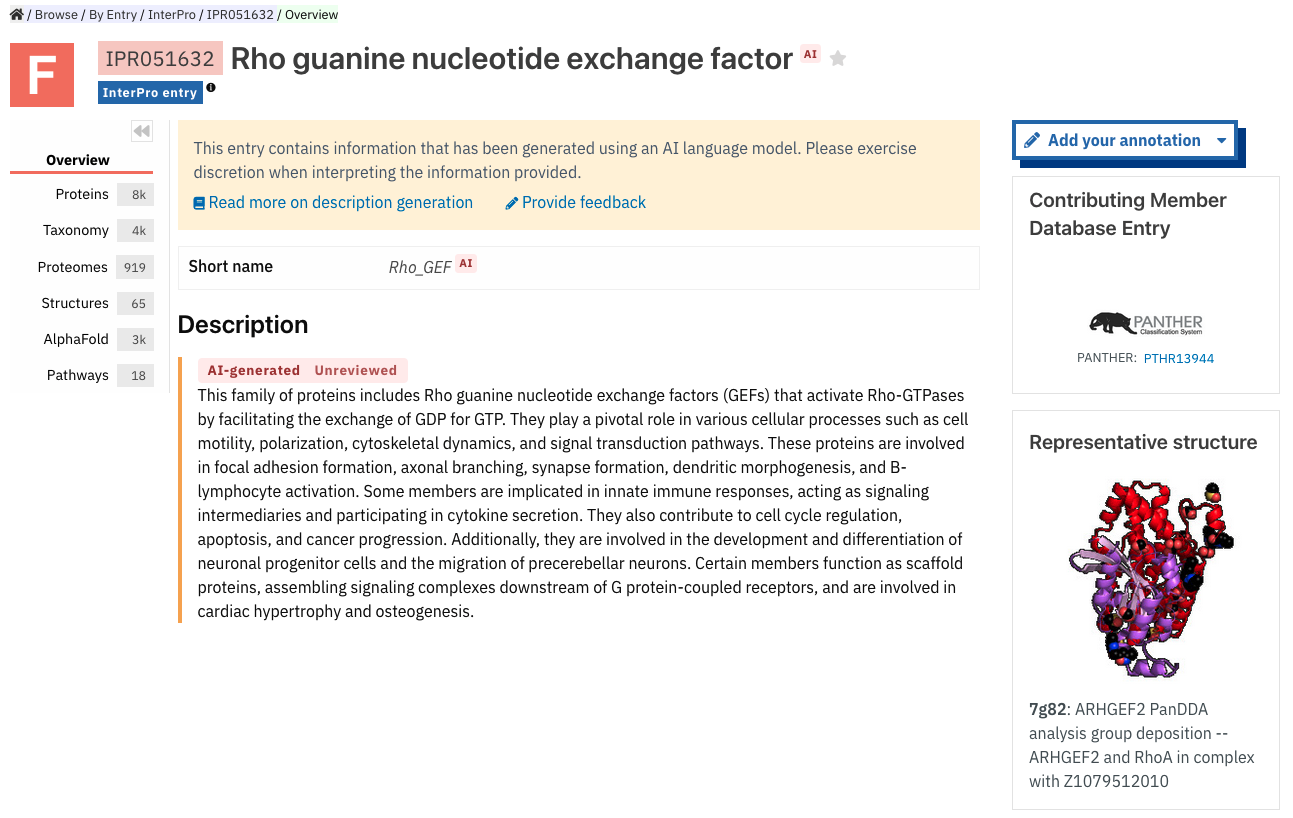
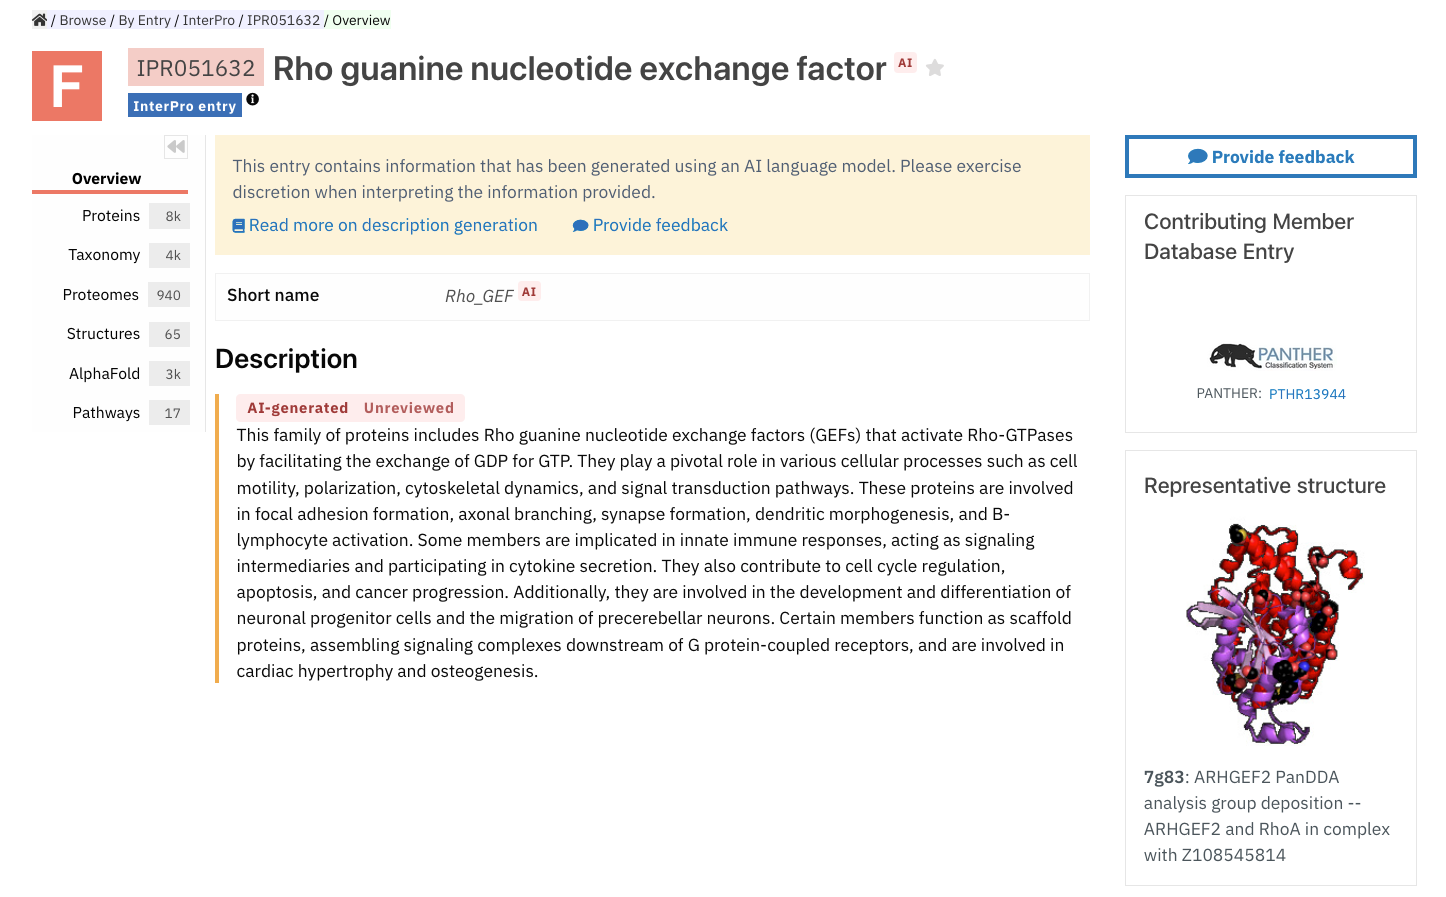
Updated for InterPro 101.0

diff --git a/docs/browse.rst b/docs/browse.rst
@@ -63,13 +63,13 @@ icon (e.g. a D with a green background for a domain).
 Clicking on the star symbol next to the entry name will save the entry as a Favourite. The full list of saved
 entries is available in the :ref:`favourite` in the homepage. More information about the data provided in an 
 
-On the right hand side, the **Add your annotation** button allows the user to suggest updates to the InterPro annotation and the page member 
-databases contributing signatures to the entry are shown in a box. Below, the **Contributing Member Database Entry** integrated into 
-the InterPro entry are listed with links to the corresponding :ref:`member database pages <memberdb_page>`. At the bottom of this column, if 
-any experimentally solved structure is available, a **Representative structure** shows a small static 3D representation, the corresponding PDB ID 
-and name, and a link to the :ref:`structure entry page <structure_page>`. The chosen representative structure is picked from structures that match the entry and have a 
-resolution of less than 2 Angstroms. In this refined dataset, the representative 
-structure is identified as the one exhibiting the highest coverage ratio for the entry, 
+On the right hand side, the **Provide feedback** button links to a **Feedback** subpage, which allows the user to suggest 
+updates to the InterPro entry annotation. Below, the **Contributing Member Database Entry** signatures integrated into 
+the InterPro entry are shown in a box with links to the corresponding :ref:`member database pages <memberdb_page>`. 
+At the bottom of this column, if any experimentally solved structure is available, a **Representative structure** shows 
+a small static 3D representation, the corresponding PDB ID and name, and a link to the :ref:`structure entry page <structure_page>`. 
+The chosen representative structure is picked from structures that match the entry and have a resolution of less than 2 Angstroms. 
+In this refined dataset, the representative structure is identified as the one exhibiting the highest coverage ratio for the entry, 
 where a minimum of 50% of the residues in the structure are covered by the entry.
 
 
@@ -234,7 +234,7 @@ the `MetaCyc Metabolic Pathway Database <https://metacyc.org/>`_ and the `Reacto
 Interactions
 ============
 List of proteins characterised in experimentally proven data in which the proteins matching an entry are 
-involved in protein:protein interactions.
+involved in protein:protein interactions. For every molecule pair, links to IntAct and EuropePMC are available.
 
 .. _memberdb_page:
 
@@ -269,8 +269,9 @@ displayed.
 To address the absence of annotations for certain member database signatures that are not integrated 
 into any InterPro entry, we've employed AI to automatically generate descriptions by extracting information 
 from Swiss-Prot. It's important to note that these descriptions have not undergone curator review, and we 
-advise regarding them as preliminary sources of information. 
-:doc:`Read more on AI-generated descriptions. </llm_descriptions>`
+advise regarding them as preliminary sources of information. The user can click on **Provide feedback**, 
+which links to a google form with some general questions, or 
+:doc:`Read more on description generation. </llm_descriptions>`
 
 .. figure:: images/browse_pages/member_db_page_AI_desc.png
     :alt: Member database page using AI-generated content
@@ -287,7 +288,8 @@ belongs to is indicated.
 The right hand side of the page provides links to the InterPro entry in which this signature has been integrated, and an external link to the signature 
 on the member database's website when available. At the bottom of this column, if any experimentally solved structure is available, a **Representative 
 structure** shows a small static 3D representation, the corresponding PDB ID and name and a link to the :ref:`structure entry page <structure_page>`. 
-For Pfam signatures, the **Add your annotation** button allows the user to suggest updates to the Pfam annotation.
+For Pfam signatures, the **Provide feedback** button links to a **Feedback** subpage, which allows the user to suggest 
+updates to the Pfam annotation.
 
 For signatures provided by the Pfam member database, a short extract of one or more Wikipedia pages are also displayed
 when available to complete the description.

diff --git a/docs/searchways.rst b/docs/searchways.rst
@@ -217,7 +217,7 @@ Below we describe how to use the browse search feature:
 1. Select a data type
 
 The browse page opens up with **7 data types** to allow browsing of InterPro entries, Member databases signatures, 
-Proteins, Structures, Taxonomies, Proteomes or Sets.
+Proteins, Structures, Taxonomies, Proteomes or Clan/Sets.
 
 .. figure:: images/browse/tabs.png
   :alt: Data types
@@ -226,6 +226,16 @@ Proteins, Structures, Taxonomies, Proteomes or Sets.
 2. Select any additional filters
 
 The filters options displayed for each data type will vary as appropriate.
+
+3. Sort by accession
+
+.. figure:: images/browse/sort_by_accesion.png
+  :alt: Sort by accesion
+  :width: 50px
+  :align: left
+
+The tables can be ordered by accession in ascendent or descendent order by clicling on the arrow at the right side of the column title
+**Accession** when browsing by **InterPro**, **Member DB** and **Clan/Set**.
 
 .. _memberdbFilter:
 
@@ -279,10 +289,11 @@ InterPro entry filters
   :width: 200px
   :align: left
 
-When **Browse by InterPro** is selected, two filter types can be applied:
+When **Browse by InterPro** is selected, three filter types can be applied:
 
 - **InterPro Type**: limits the data in the :ref:`data views <data_views>` to the selected :ref:`entry_types`.
-- **Go Terms**: filters by selected Go terms from `InterPro2GO <https://www.ebi.ac.uk/GOA/InterPro2GO>`_.
+- **GO Terms**: filters by selected GO terms from `InterPro2GO <https://www.ebi.ac.uk/GOA/InterPro2GO>`_.
+- **New entries**: shows only the entries created and made available or modified in the most recent release.
 
 |
 |
